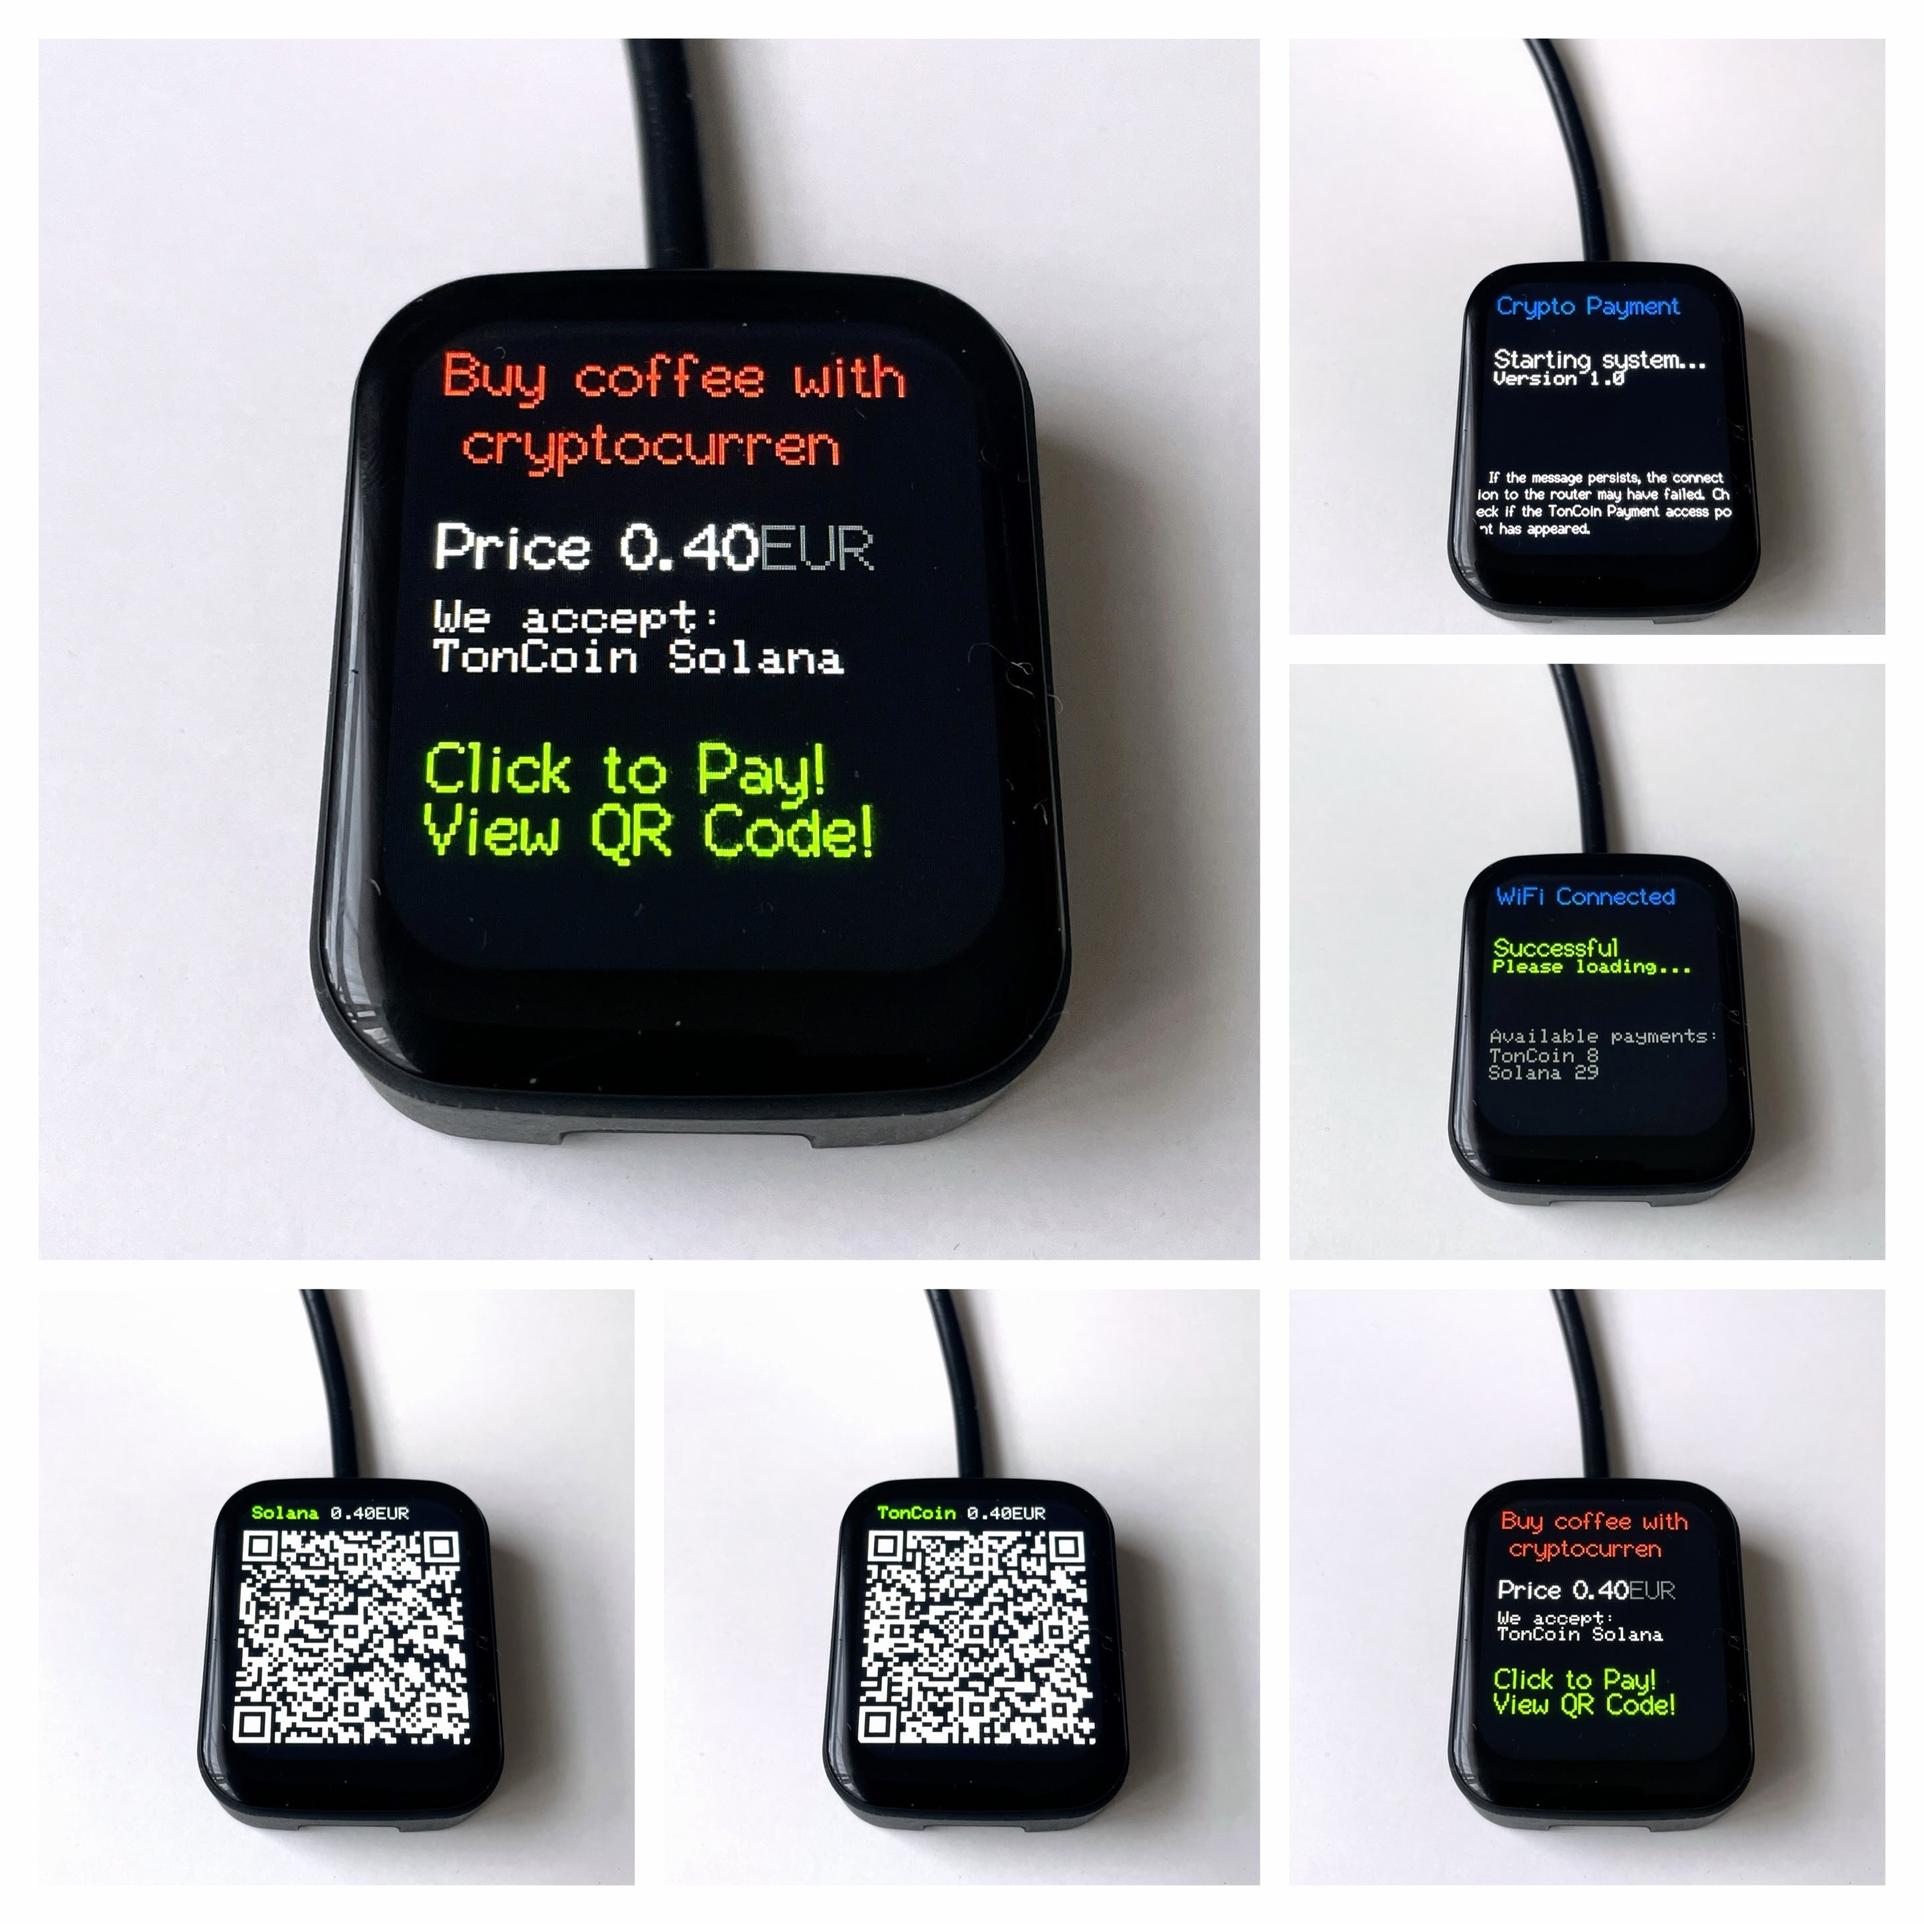
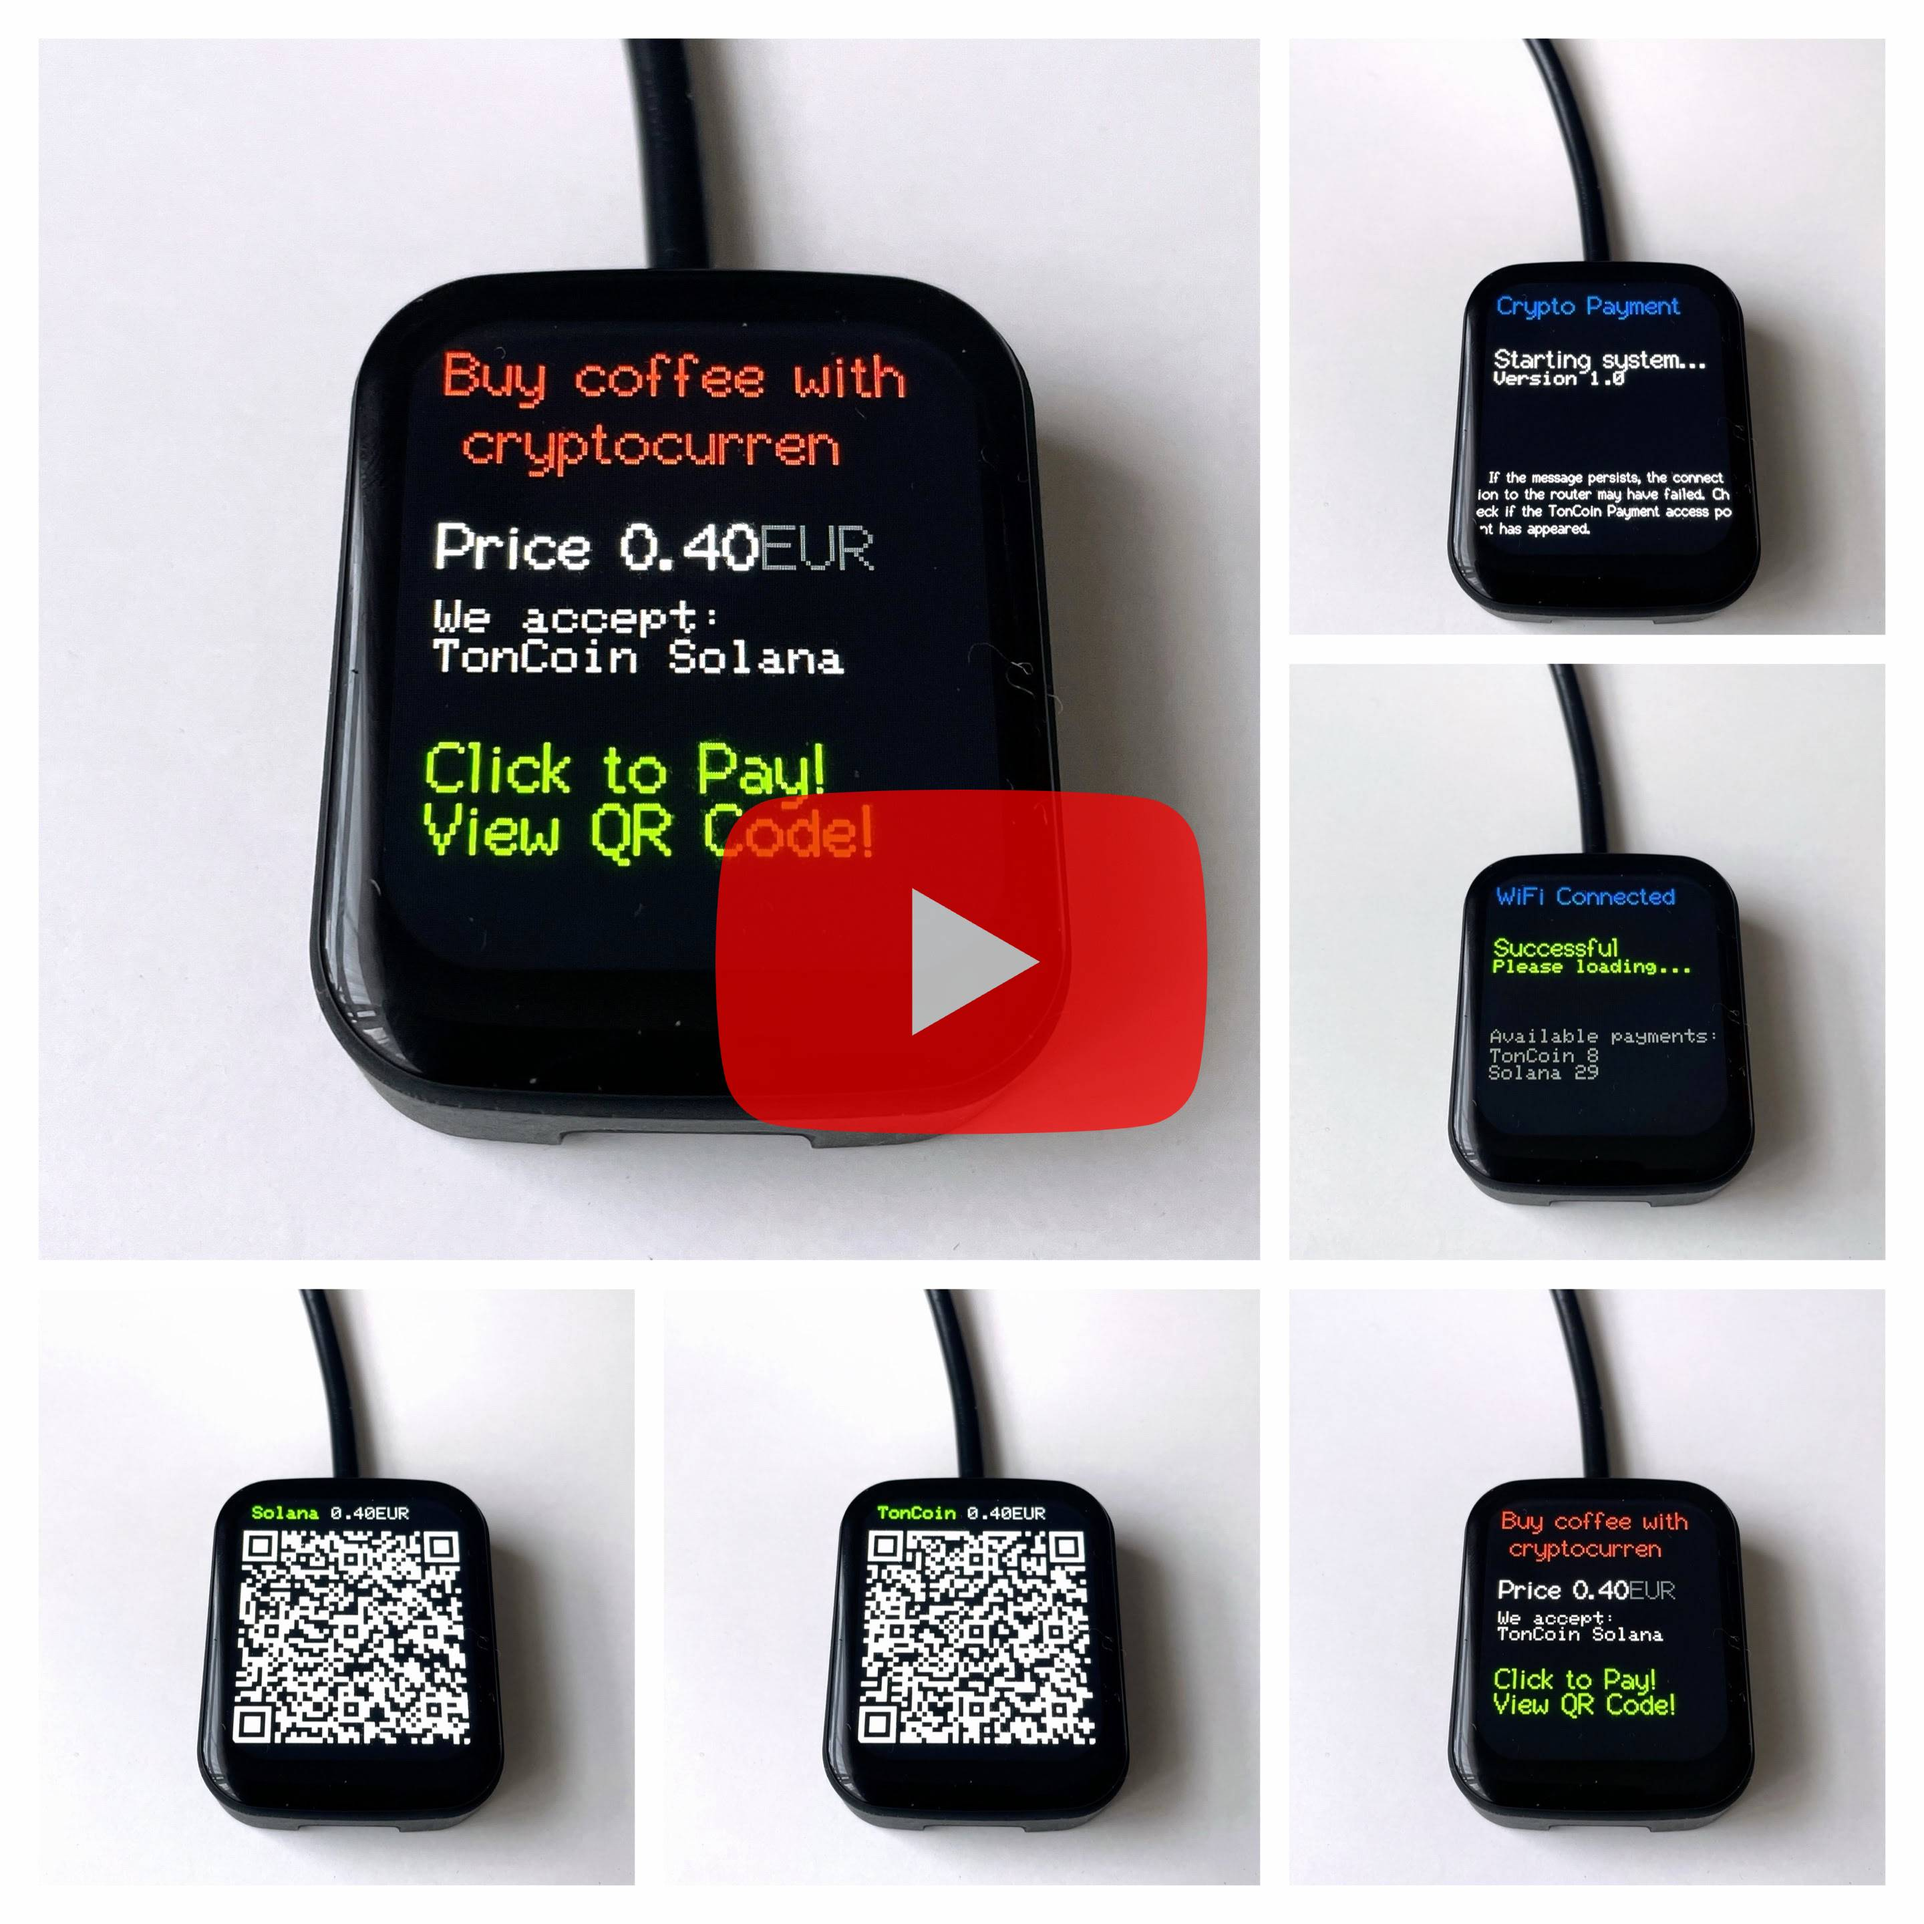
Add video

Changed region(s): [[0.375, 0.4062, 0.625, 0.5938]]

diff --git a/README_RU.md b/README_RU.md
@@ -5,12 +5,11 @@
 
 Вы можете собрать устройство самостоятельно или попросить это сделать для вас. Для заказа готового устройства свяжитесь через [Telegram](https://t.me/ESPiotDevice), [Skype](https://skype:renat2985?chat), [Discord](https://discord.com/invite/zaGaDuGe).
 
-У нас есть похожий проект с экраном, [посмотри](https://github.com/renat2985/solana_payment), и на базе [Sonoff](https://github.com/renat2985/toncoin_payment_sonoff).
+У нас есть похожий проект с экраном, [посмотри](https://github.com/renat2985/toncoin_payment), и на базе [Sonoff](https://github.com/renat2985/toncoin_payment_sonoff).
 
 Да и если вы хотите видеть здесь новую криптовалюту которая вам нужна, пишите, добавим. :)
 
-
-![IMAGE ALT TEXT HERE](https://github.com/renat2985/crypto_payment_touchScreen/blob/main/doc/intro.jpg)
+[![IMAGE ALT TEXT HERE](https://github.com/renat2985/toncoin_payment/blob/main/doc/intro.jpg)](https://www.youtube.com/watch?v=OLOO8hDeg5w&list=PL6NJTNxbvy-LpsI6D_1RM6v5YWDvsm5j4)
 
 ### Основные функции:
 

diff --git a/README.md b/README.md
@@ -4,11 +4,11 @@ A convenient and fast way to implement paid services using TonCoin and Solana cr
 
 You can build the device yourself or ask us to do it for you. To order a ready-made device, contact us via [Telegram](https://t.me/ESPiotDevice), [Skype](https://skype:renat2985?chat), or [Discord](https://discord.com/invite/zaGaDuGe).
 
-We have a similar project with a display, [check it out](https://github.com/renat2985/solana_payment), and also based on [Sonoff](https://github.com/renat2985/toncoin_payment_sonoff).
+We have a similar project with a display, [check it out](https://github.com/renat2985/toncoin_payment), and also based on [Sonoff](https://github.com/renat2985/toncoin_payment_sonoff).
 
 If you want to see a new cryptocurrency that you need here, feel free to contact us, and we'll add it. :)
 
-![IMAGE ALT TEXT HERE](https://github.com/renat2985/crypto_payment_touchScreen/blob/main/doc/intro.jpg)
+[![IMAGE ALT TEXT HERE](https://github.com/renat2985/toncoin_payment/blob/main/doc/intro.jpg)](https://www.youtube.com/watch?v=OLOO8hDeg5w&list=PL6NJTNxbvy-LpsI6D_1RM6v5YWDvsm5j4)
 
 ### Main Features:
 
